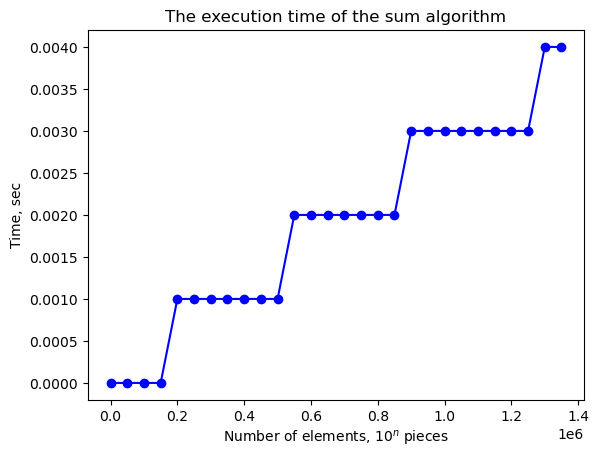
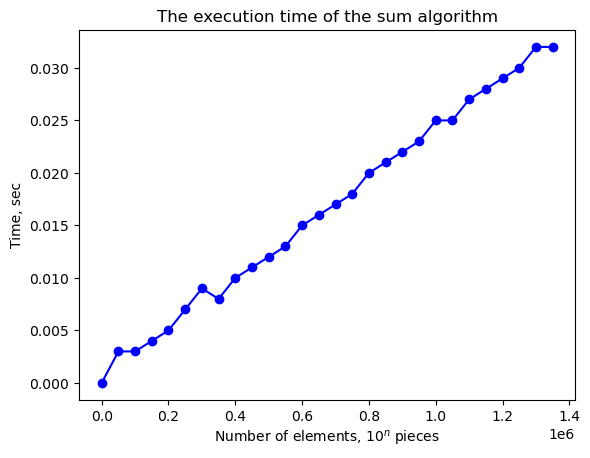
Изменен lr1.md

diff --git a/37/Вариант 6/lr1.md b/37/Вариант 6/lr1.md
@@ -21,13 +21,16 @@ import random, usage_time
 import matplotlib.pyplot as plt
 
 def sum_elements(v: list):
-    return sum(v)
+    sum_ = 0
+    for i in v:
+        sum_ = sum_ + i
+    return sum_
 
 items = range(1, 10**5 * 14, 50000)
 func = usage_time.get_usage_time()(sum_elements)
 times = [
     func ([
-        random.randint(1, 3)
+        random.randint(0, 10)
         for _ in range(n)
     ])
     for n in items
@@ -105,19 +108,19 @@ ax.set_ylabel('Time, sec')
 import random, usage_time
 import matplotlib.pyplot as plt
 
-def horner_method(v: list):
+def horner_method(v: list, x):
     res = 0
     for c in v:
-        res = res * 2 + c
+        res = res * x + c
     return res
 
-items = range(1, 10**5 * 14, 50000)
+items = range(1, 10**5 * 14, 10000)
 func = usage_time.get_usage_time()(horner_method)
 times = [
-    func ([
-        random.randint(1, 3)
-        for _ in range(n)
-    ])
+    func (
+        [1 for _ in range(n)],
+        0.000001
+    )
     for n in items
 ]
 
@@ -150,11 +153,11 @@ import random, usage_time
 import matplotlib.pyplot as plt
 
 def search_min(v: list):
-    min = 10**5 * 14
+    min_ = 10**5 * 14
     for n in v:
-        if n < min:
-            min = n
-    return min
+        if n < min_:
+            min_ = n
+    return min_
 
 items = range(1, 10**5 * 14, 50000)
 func = usage_time.get_usage_time()(search_min)
